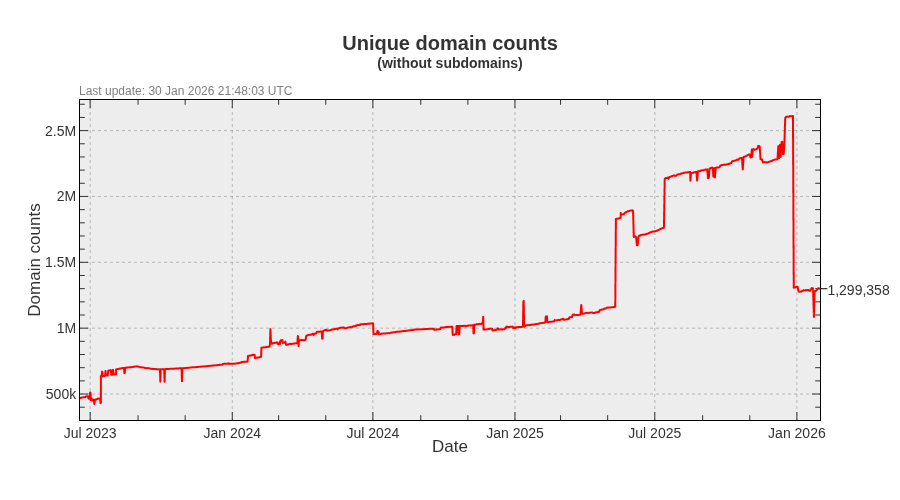
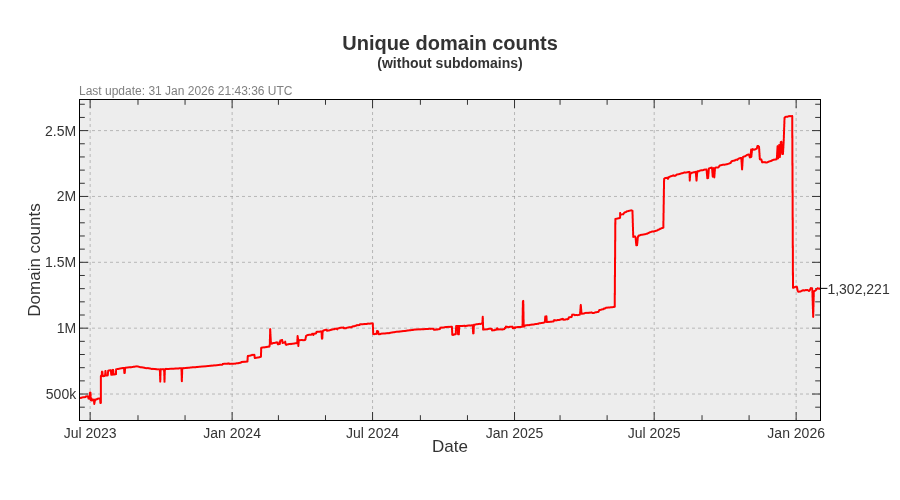
Update pages

diff --git a/README.md b/README.md
@@ -3,22 +3,22 @@ A blocklist file for blocking ads, trackers and malware domains.
 
[1 lines of base64/hex data omitted]
 
-- Unique domains: 1,946,307
-- Without subdomains: 1,299,358
-- Last update: 30 Jan 2026 21:48:03 UTC
-- Version: 2026.01.30.01
+- Unique domains: 1,948,830
+- Without subdomains: 1,302,221
+- Last update: 31 Jan 2026 21:43:36 UTC
+- Version: 2026.01.31.01
 
 
 ### Downloads:
 
 | Format             | Domain count      | Download Link |
 |:------------------ | -----------------:|:-------------:|
-| *Adblock Plus*     | 1,299,358 | [Download](https://dl.cenk.app/bad-hosts/bad-hosts-abp) |
-| *Wildcard domains* | 1,299,358 | [Download](https://dl.cenk.app/bad-hosts/bad-hosts-wildcard) |
-| *dnsmasq*          | 1,299,358 | [Download](https://dl.cenk.app/bad-hosts/bad-hosts-dnsmasq) |
-| *hosts*            | 1,946,307 | [Download](https://dl.cenk.app/bad-hosts/hosts) |
-| *hosts (ipv6)*     | 1,946,307 | [Download](https://dl.cenk.app/bad-hosts/hosts-ipv6) |
-| *Plain domains*    | 1,946,307 | [Download](https://dl.cenk.app/bad-hosts/bad-hosts-domains) |
+| *Adblock Plus*     | 1,302,221 | [Download](https://dl.cenk.app/bad-hosts/bad-hosts-abp) |
+| *Wildcard domains* | 1,302,221 | [Download](https://dl.cenk.app/bad-hosts/bad-hosts-wildcard) |
+| *dnsmasq*          | 1,302,221 | [Download](https://dl.cenk.app/bad-hosts/bad-hosts-dnsmasq) |
+| *hosts*            | 1,948,830 | [Download](https://dl.cenk.app/bad-hosts/hosts) |
+| *hosts (ipv6)*     | 1,948,830 | [Download](https://dl.cenk.app/bad-hosts/hosts-ipv6) |
+| *Plain domains*    | 1,948,830 | [Download](https://dl.cenk.app/bad-hosts/bad-hosts-domains) |
 
 ### Domain count history
 #### With subdomains
